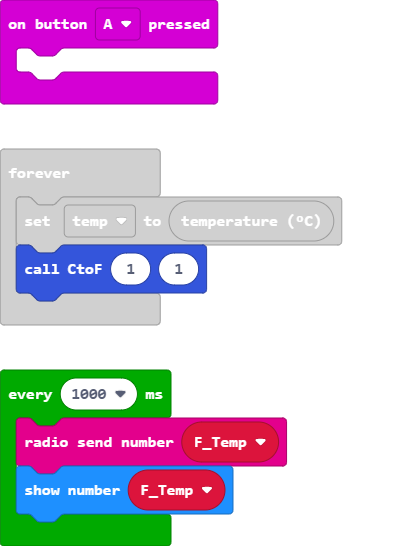
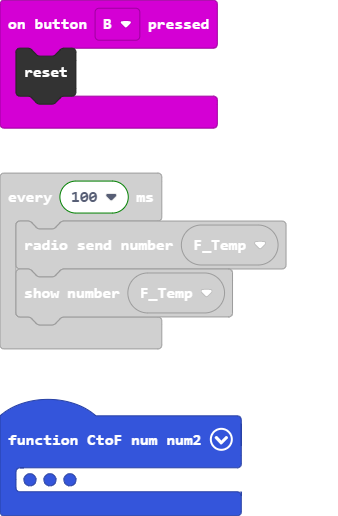
Update main.blocks, main.ts

diff --git a/main.ts b/main.ts
@@ -6,18 +6,18 @@ function CtoF (num: number, num2: number) {
 radio.onReceivedNumber(function (receivedNumber) {
     basic.showNumber(receivedNumber)
 })
-input.onButtonPressed(Button.A, function () {
-	
+input.onButtonPressed(Button.B, function () {
+    control.reset()
 })
 let temp = 0
 let F_Temp = 0
 radio.setGroup(1)
 radio.setTransmitPower(7)
-loops.everyInterval(1000, function () {
-    radio.sendNumber(F_Temp)
-    basic.showNumber(F_Temp)
-})
 basic.forever(function () {
     temp = input.temperature()
     CtoF(1, 1)
+})
+loops.everyInterval(100, function () {
+    radio.sendNumber(F_Temp)
+    basic.showNumber(F_Temp)
 })
